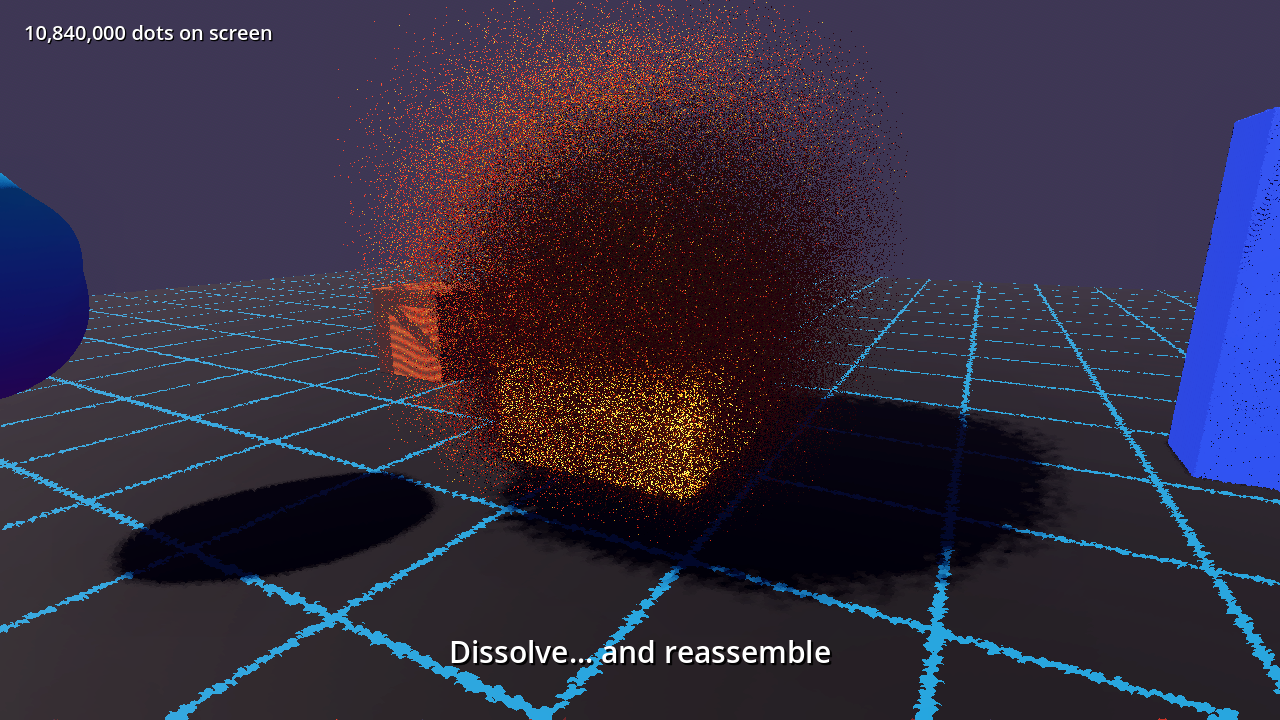
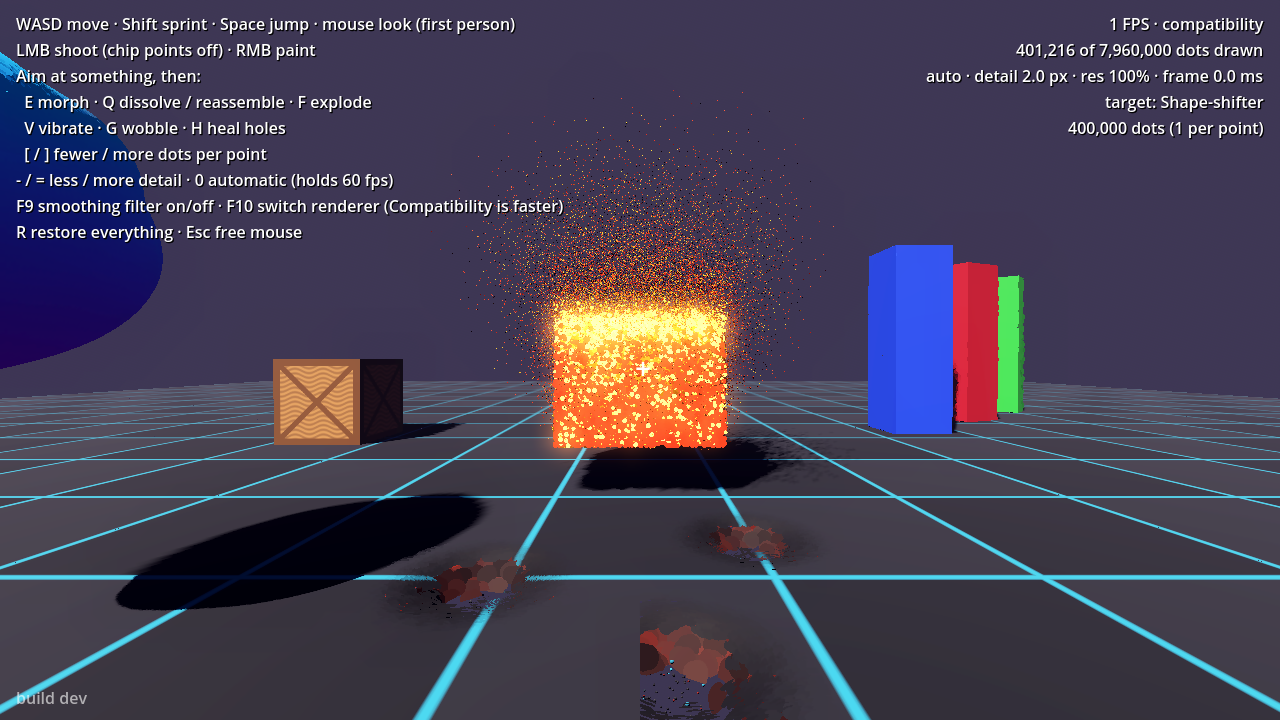
Update README screenshots for the first-person build
Claude-Session: https://claude.ai/code/session_016jriRYPT9uucwyBvbxurYF

diff --git a/README.md b/README.md
@@ -11,8 +11,8 @@ text, changing colour on the way.
 
 | | |
 |---|---|
-| ![A solid cube made of 1.6 million dots](docs/solid_shapes.png) | ![Shooting the cube: dots chip off, glowing core shows](docs/demo.png) |
-| ![Dissolving cube](docs/dissolve.png) | Everything in these shots is dots, 10.8 million in the scene. Top left: an intact 1.6-million-dot cube. Top right: the same cube being shot, with dots flying off and its glowing interior showing. Bottom left: a dissolve. Record your own with `tests/demo_video.tscn` (see below). |
+| ![First-person view: every object is made of dots](docs/solid_shapes.png) | ![Shooting the cube and the floor: holes, hole walls, flying beads](docs/demo.png) |
+| ![Dissolving cube](docs/dissolve.png) | Everything in these shots is dots, drawn as solid surfaces. Top left: the first-person view. Top right: the cube and the floor after a few shots, with dark hole walls and glowing debris beads. Bottom left: a dissolve. Record your own with `tests/demo_video.tscn` (see below). |
 
 ## Download (Windows)
 
